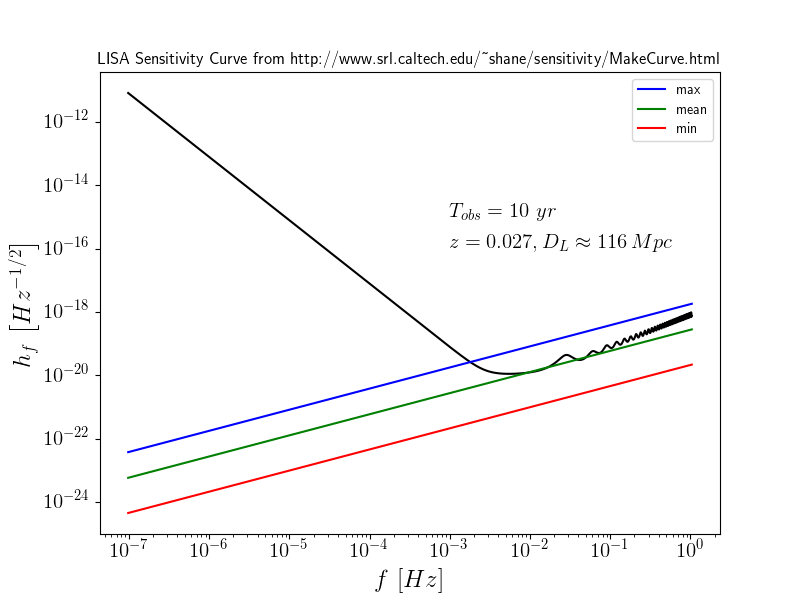
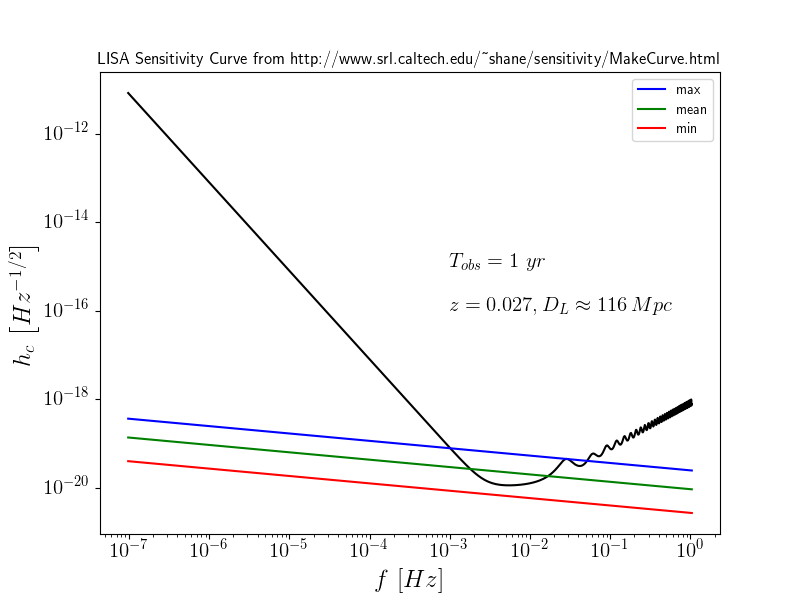
Calculating strain with Sesana (2016)

diff --git a/GW_strain_BHB_mergers/CompareStrainToLISA.py b/GW_strain_BHB_mergers/CompareStrainToLISA.py
@@ -1,0 +1,39 @@
+#!/usr/bin/python
+
+import numpy as np
+import matplotlib.pyplot as plt
+from sys import argv
+
+if ( len( argv ) > 1 ): Nz = argv[ 1 ]
+else:                   Nz = str( 26 )
+
+f_LISA , h_LISA = np.loadtxt( 'LISA_sensitivity.dat' , unpack = True )
+data = np.loadtxt( 'StrainDataFiles/GW_strain_' + Nz + '.dat' )
+
+z = data[ 0 , 0 ]
+D = data[ 0 , 1 ]
+
+f     = data[ 1 : , 0 ]
+h     = data[ 1 : , 1 ]
+h_min = data[ 1 : , 2 ]
+h_max = data[ 1 : , 3 ]
+
+fig = plt.figure()
+plt.title( r'LISA Sensitivity Curve from http://www.srl.caltech.edu/\textasciitilde shane/sensitivity/MakeCurve.html' )
+
+plt.loglog( f_LISA , h_LISA , 'k-' )
+plt.loglog( f      , h_max  , 'b-' , label = 'max'  )
+plt.loglog( f      , h      , 'g-' , label = 'mean' )
+plt.loglog( f      , h_min  , 'r-' , label = 'min'  )
+
+plt.text( f_LISA[ 400 ] , h_LISA[ 200 ] , r'$T_{obs}=1\ yr$' , fontsize = 15 )
+plt.text( f_LISA[ 400 ] , h_LISA[ 250 ] , \
+            r'$z = %.3f, D_L \approx %i\,Mpc$' % ( z , D * ( 1.0 + z ) ) , \
+              fontsize = 15 )
+plt.xlabel( r'$f\,\left[Hz\right]$' )
+plt.ylabel( r'$h_{c}\,\left[Hz^{-1/2}\right]$' )
+
+plt.legend()
+plt.savefig( 'GW_strain_' + Nz + '.png' )
+#plt.show()
+

diff --git a/GW_strain_BHB_mergers/LISA_sensitivity.py b/GW_strain_BHB_mergers/LISA_sensitivity.py
@@ -2,37 +2,16 @@
 
 import numpy as np
 import matplotlib.pyplot as plt
-from sys import argv
-
-if ( len( argv ) > 1 ): Nz = argv[ 1 ]
-else:                   Nz = str( 26 )
 
 f_LISA , h_LISA = np.loadtxt( 'LISA_sensitivity.dat' , unpack = True )
-data  = np.loadtxt( 'StrainDataFiles/GW_strain_' + Nz + '.dat' )
-
-z = data[ 0 , 0 ]
-D = data[ 0 , 1 ]
-
-f     = data[ 1 : , 0 ]
-h     = data[ 1 : , 1 ]
-h_min = data[ 1 : , 2 ]
-h_max = data[ 1 : , 3 ]
 
 fig = plt.figure()
 plt.title( r'LISA Sensitivity Curve from http://www.srl.caltech.edu/\textasciitilde shane/sensitivity/MakeCurve.html' )
 
 plt.loglog( f_LISA , h_LISA , 'k-' )
-plt.loglog( f    , h_max , 'b-' , label = 'max'  )
-plt.loglog( f    , h     , 'g-' , label = 'mean' )
-plt.loglog( f    , h_min , 'r-' , label = 'min'  )
 
-plt.text( f_LISA[ 400 ] , h_LISA[ 200 ] , r'$T_{obs}=10\ yr$' , fontsize = 15 )
-plt.text( f_LISA[ 400 ] , h_LISA[ 250 ] , \
-            r'$z = %.3f, D_L \approx %i\,Mpc$' % ( z , D ) , \
-              fontsize = 15 )
 plt.xlabel( r'$f\,\left[Hz\right]$' )
 plt.ylabel( r'$h_{f}\,\left[Hz^{-1/2}\right]$' )
 
-plt.legend()
-plt.savefig( 'GW_strain_' + Nz + '.png' )
+plt.savefig( 'LISA_sensitivity.png' )
 #plt.show()
